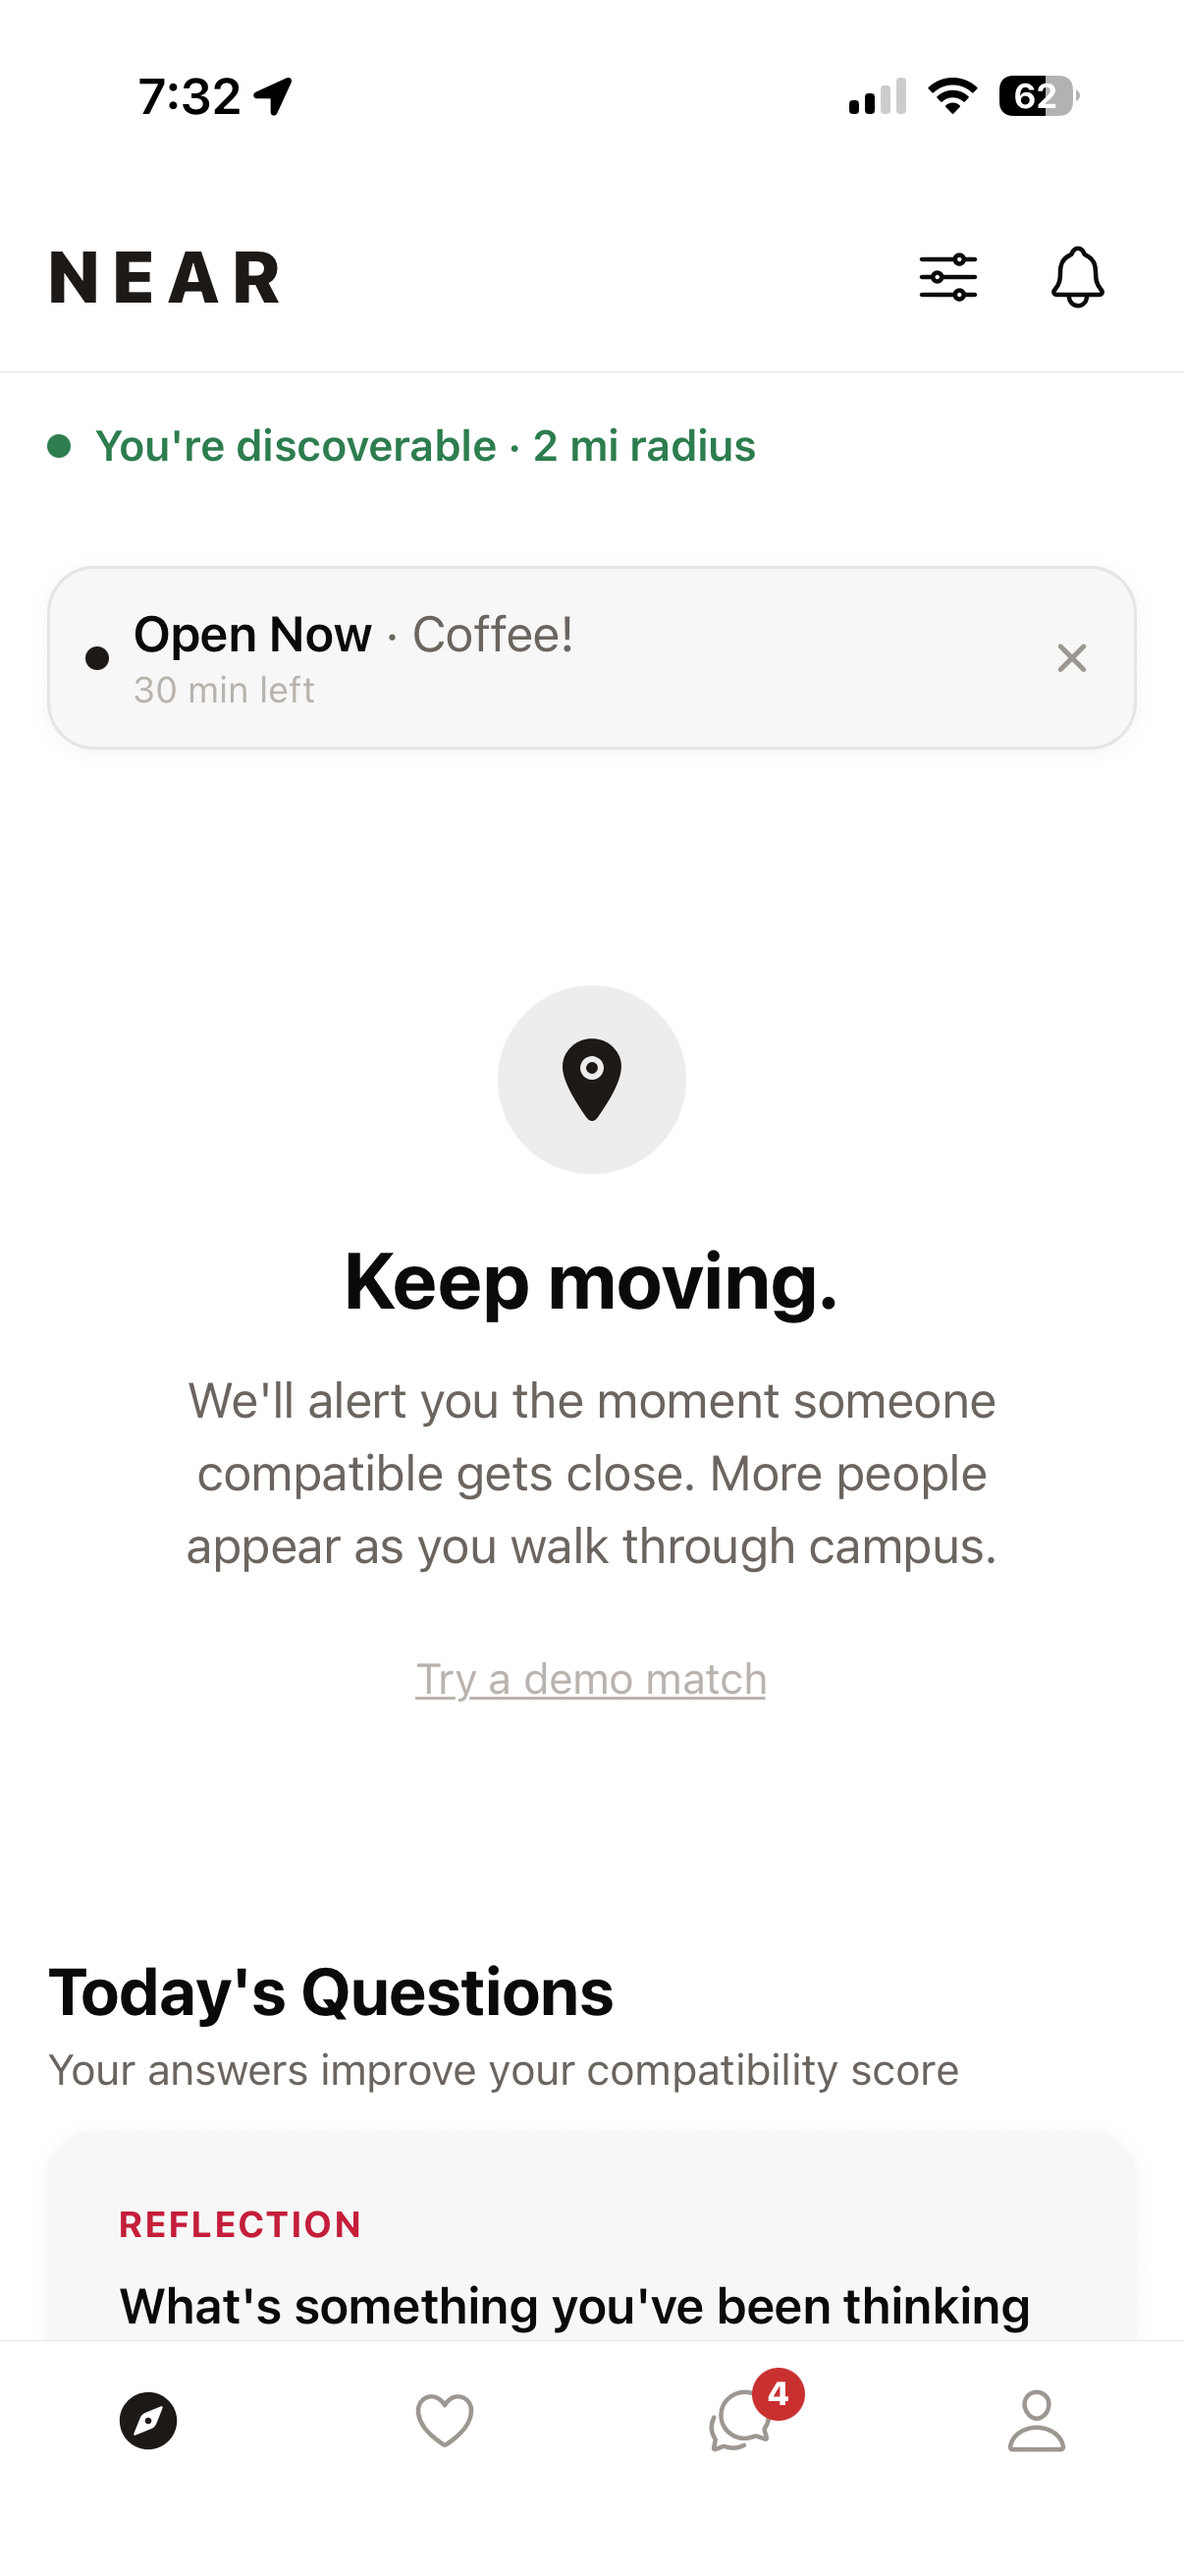
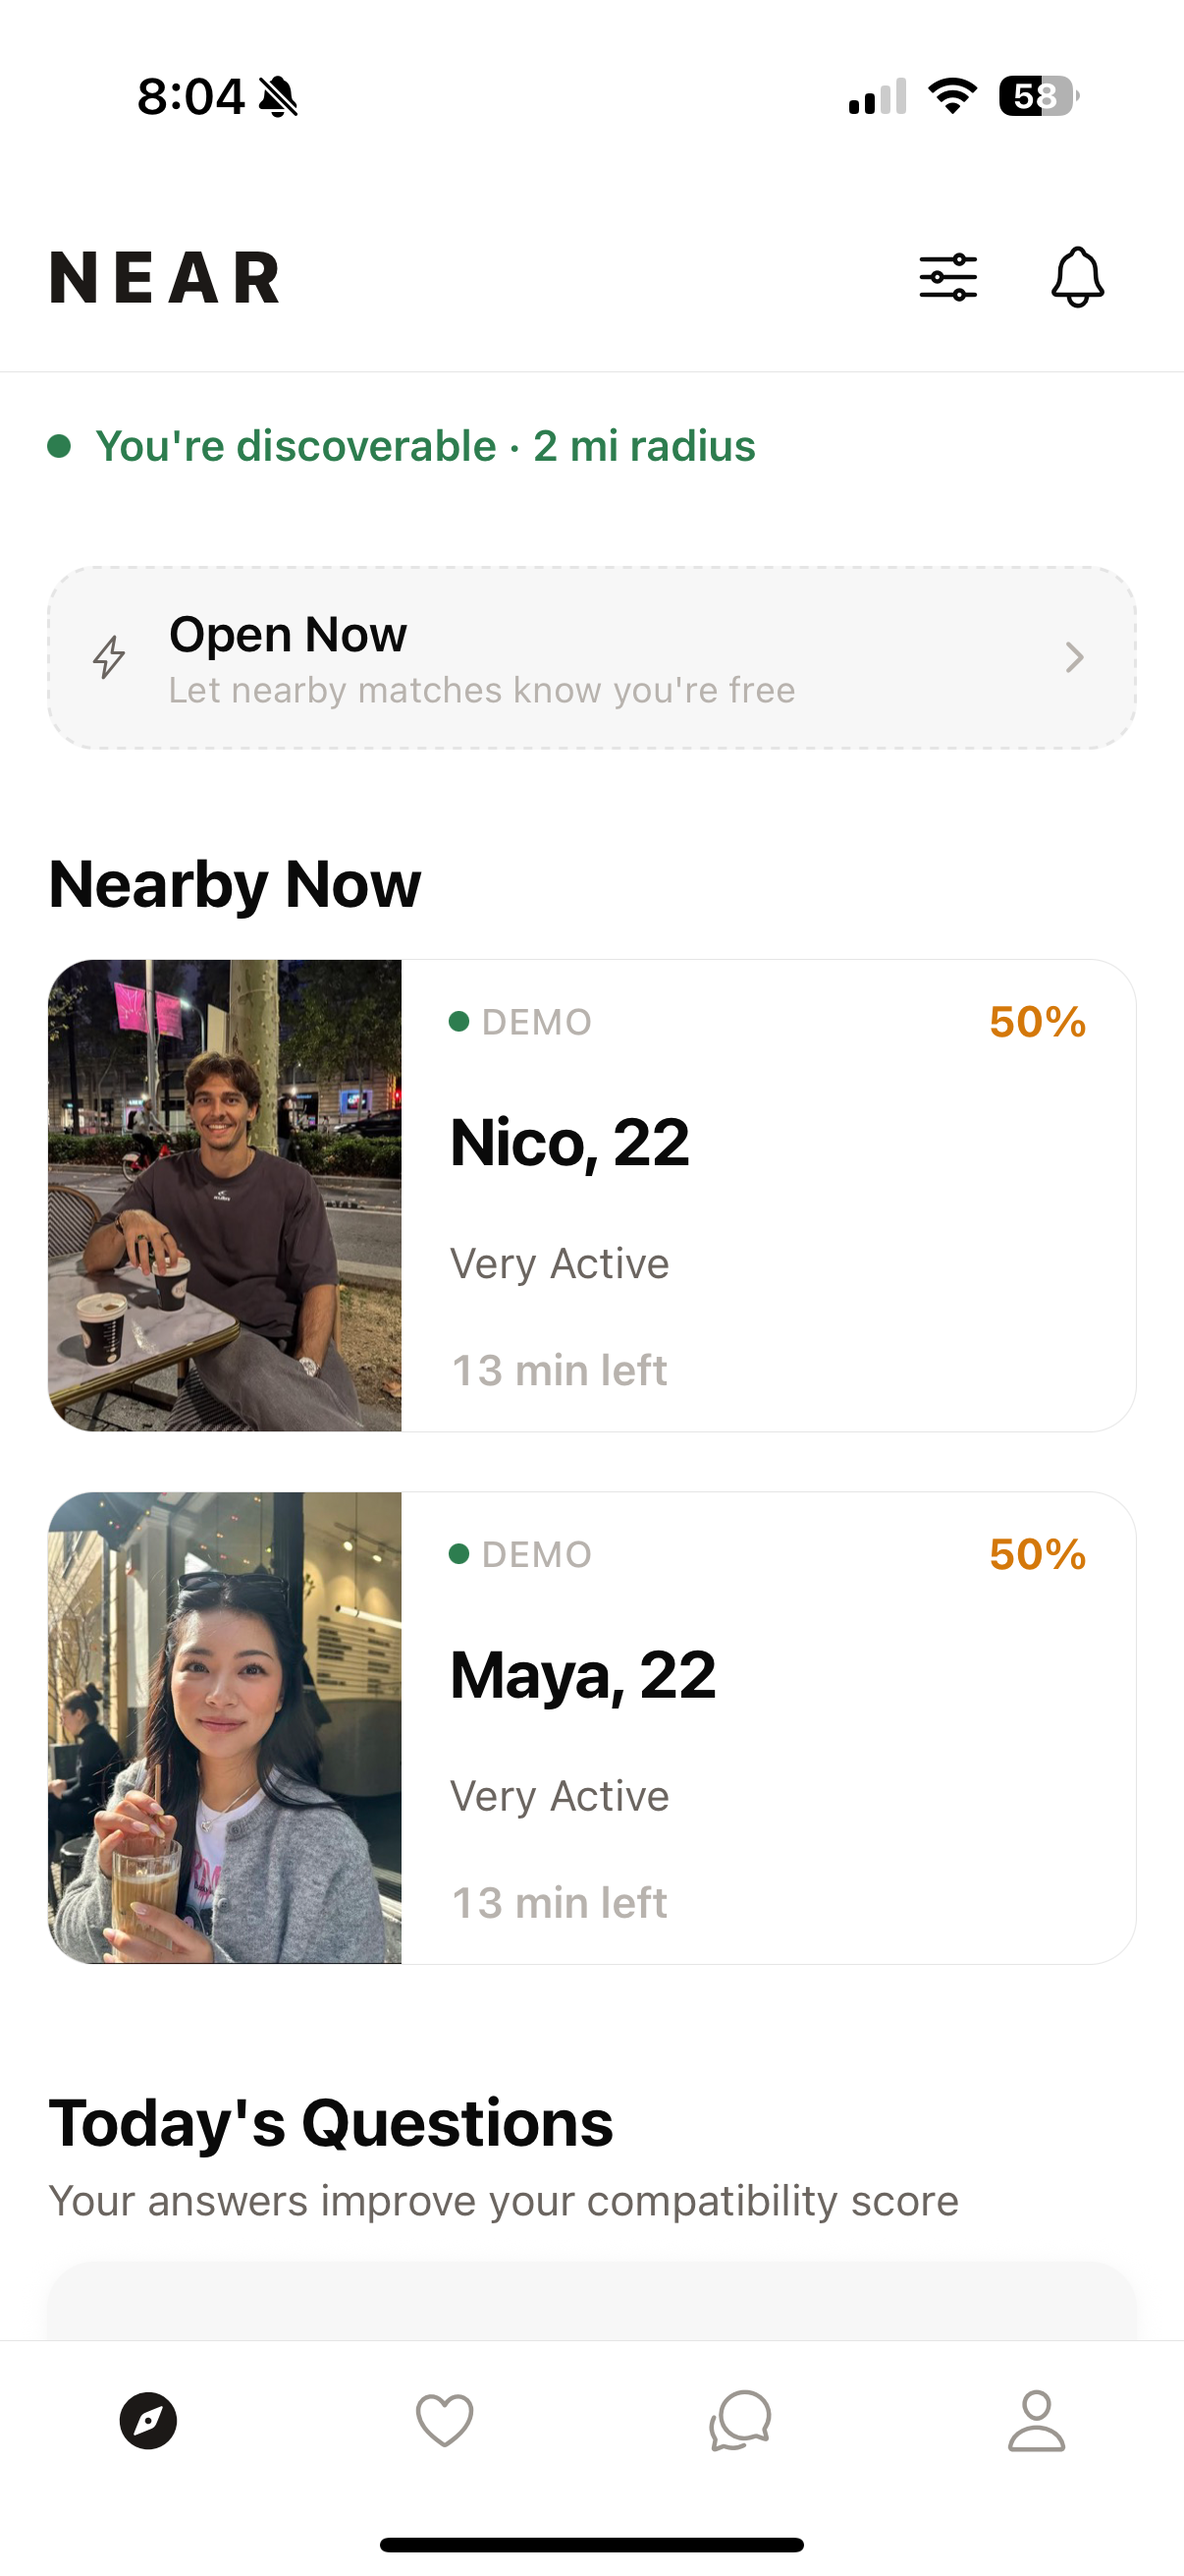
Swap in matches-loaded feed and chat screenshots

diff --git a/README.md b/README.md
@@ -11,9 +11,9 @@ Currently running as a live pilot at Stanford.
 <p align="center">
   <img src="docs/screenshot_2.png" alt="Near onboarding screen" width="220"/>
   &nbsp;&nbsp;
-  <img src="docs/screenshot_3.png" alt="Near discovery feed, waiting state" width="220"/>
+  <img src="docs/screenshot_3.png" alt="Near discovery feed, nearby matches" width="220"/>
   &nbsp;&nbsp;
-  <img src="docs/screenshot_4.png" alt="Near profile screen" width="220"/>
+  <img src="docs/screenshot_4.png" alt="Near chat screen" width="220"/>
 </p>
 
 ---
